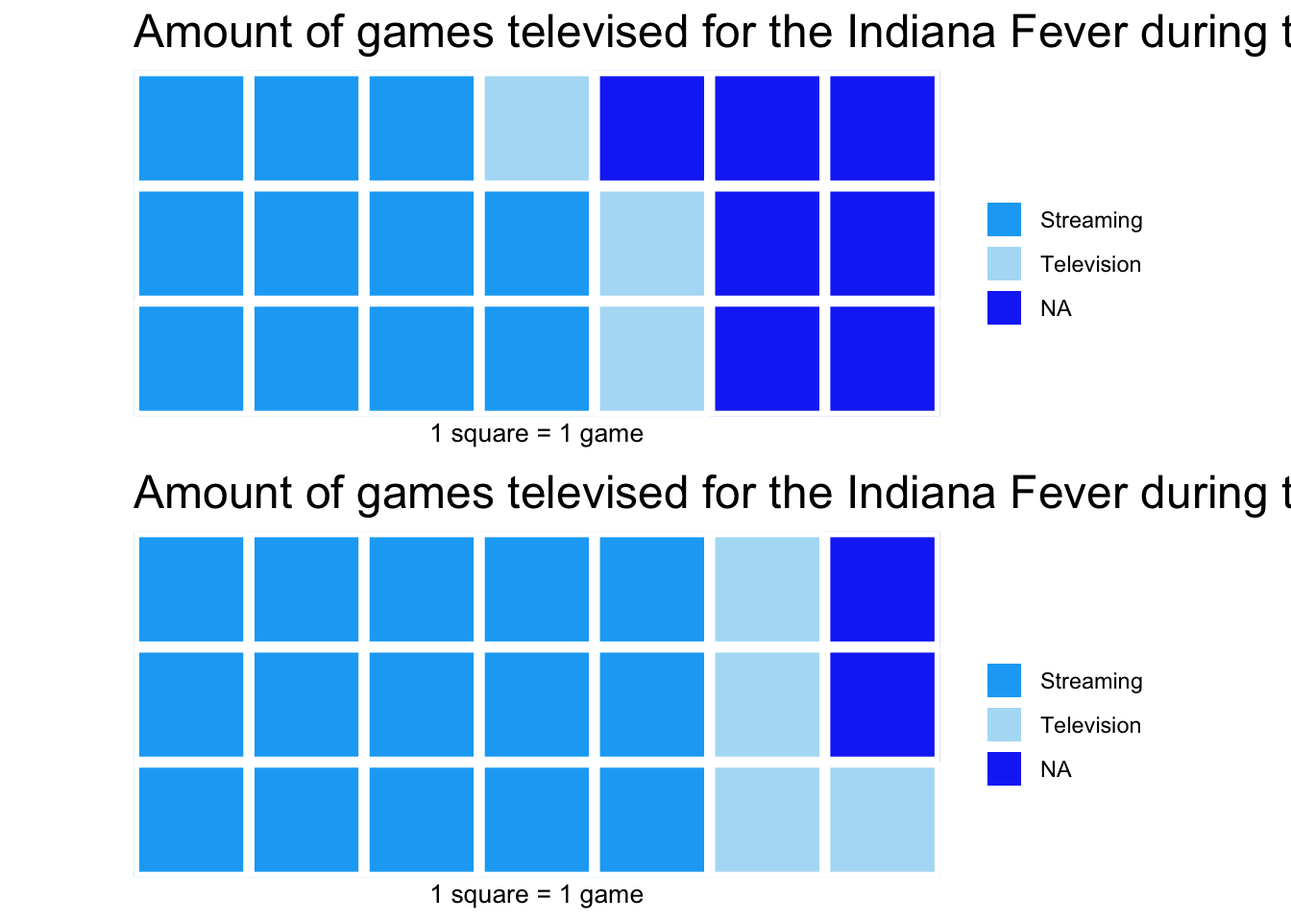
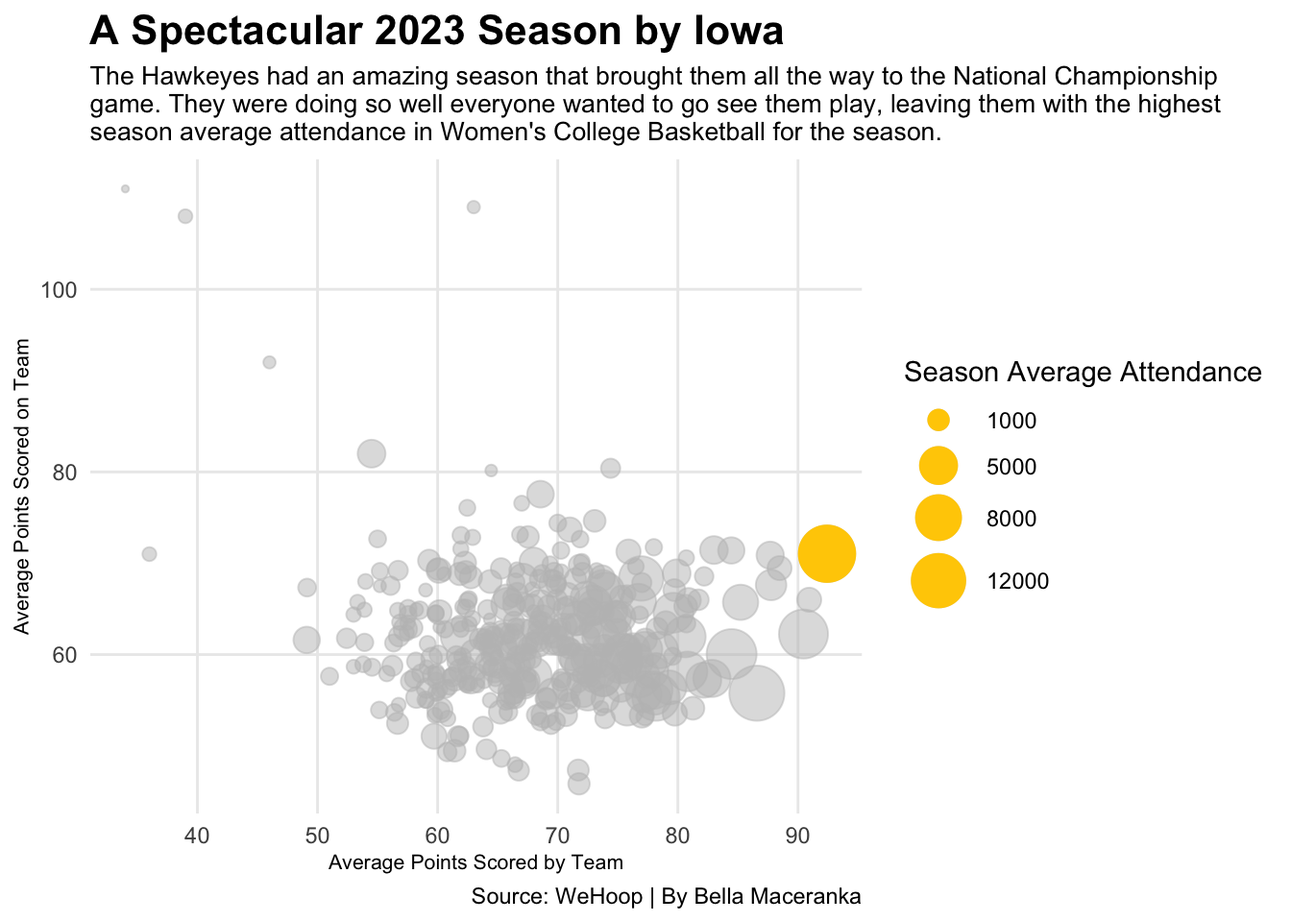
Final Draft?

diff --git a/posts/caitlin-clark-era/index.html b/posts/caitlin-clark-era/index.html
@@ -185,7 +185,8 @@ pre > code.sourceCode > span > a:first-child::before { text-decoration: underlin
 
 
 
-<p>TEXT</p>
+<p>Caitlin Clark has emerged as a transformative figure in basketball and women’s sports, leaving an enduring imprint on both the sport and her home state Iowa. As a standout player for the University of Iowa Hawkeyes women’s basketball team, her electrifying talent and fierce determination have captured the nation’s attention. With remarkable scoring prowess and unparalleled court vision, she has gained widespread acclaim, becoming one of the game’s most promising talents. Clark’s influence extends beyond her individual achievements, inspiring countless young athletes across the state and embodying the values of hard work, perseverance, and teamwork intrinsic to Iowa athletics. Her commitment to excellence on and off the court, coupled with her advocacy for important social issues, solidifies her legacy as a trailblazer.</p>
+<p>In the 2023 season, Caitlin Clark’s influence on the Iowa Hawkeyes was profound, but it was also a season of collective excellence. Under Clark’s leadership, the team showcased exceptional talent and cohesion, resulting in an impressive winning record. With a high-scoring point average and a stingy defense that allowed few points, the Hawkeyes dominated opponents, thrilling fans with their dynamic style of play. This dominance not only bolstered the team’s reputation but also contributed to the significant increase in attendance at games, as supporters flocked to witness their favorite team’s remarkable success firsthand. The teamwork between Clark and her teammates was very apparent, as they collectively elevated each others performance, forging a formidable force in collegiate basketball. As the season progressed, the Hawkeyes’ progress on the court continued to captivate audiences, solidifying their status as a powerhouse program and further cementing their place in the hearts of Iowa basketball fans.</p>
 <div class="cell">
 <details class="code-fold">
 <summary>Code</summary>
@@ -193,21 +194,43 @@ pre > code.sourceCode > span > a:first-child::before { text-decoration: underlin
 <span id="cb1-2"><a href="#cb1-2" aria-hidden="true" tabindex="-1"></a><span class="fu">library</span>(tidyverse)</span>
 <span id="cb1-3"><a href="#cb1-3" aria-hidden="true" tabindex="-1"></a><span class="fu">library</span>(waffle)</span>
 <span id="cb1-4"><a href="#cb1-4" aria-hidden="true" tabindex="-1"></a></span>
-<span id="cb1-5"><a href="#cb1-5" aria-hidden="true" tabindex="-1"></a>season23<span class="ot">&lt;-</span> <span class="fu">c</span>(<span class="st">"Streaming"</span><span class="ot">=</span> <span class="dv">11</span>, <span class="st">"Television"</span><span class="ot">=</span><span class="dv">3</span>, <span class="st">"NA"</span><span class="ot">=</span> <span class="dv">7</span>)</span>
-<span id="cb1-6"><a href="#cb1-6" aria-hidden="true" tabindex="-1"></a>season24<span class="ot">&lt;-</span> <span class="fu">c</span>(<span class="st">"Streaming"</span><span class="ot">=</span><span class="dv">15</span>, <span class="st">"Television"</span><span class="ot">=</span><span class="dv">4</span>, <span class="st">"NA"</span><span class="ot">=</span> <span class="dv">2</span>)</span>
-<span id="cb1-7"><a href="#cb1-7" aria-hidden="true" tabindex="-1"></a></span>
-<span id="cb1-8"><a href="#cb1-8" aria-hidden="true" tabindex="-1"></a><span class="fu">iron</span>(</span>
-<span id="cb1-9"><a href="#cb1-9" aria-hidden="true" tabindex="-1"></a>  <span class="fu">waffle</span>(season23,</span>
-<span id="cb1-10"><a href="#cb1-10" aria-hidden="true" tabindex="-1"></a>       <span class="at">rows=</span><span class="dv">3</span>,</span>
-<span id="cb1-11"><a href="#cb1-11" aria-hidden="true" tabindex="-1"></a>       <span class="at">title =</span> <span class="st">"Amount of games televised for the Indiana Fever during the 2023 season"</span>,</span>
-<span id="cb1-12"><a href="#cb1-12" aria-hidden="true" tabindex="-1"></a>       <span class="at">xlab =</span> <span class="st">"1 square = 1 game"</span>,</span>
-<span id="cb1-13"><a href="#cb1-13" aria-hidden="true" tabindex="-1"></a>       <span class="at">colors =</span> <span class="fu">c</span>(<span class="st">"#18ABF5"</span>, <span class="st">"#B1DEF5"</span>, <span class="st">"#183AF5"</span> ) ), </span>
-<span id="cb1-14"><a href="#cb1-14" aria-hidden="true" tabindex="-1"></a>  <span class="fu">waffle</span>(season24,</span>
-<span id="cb1-15"><a href="#cb1-15" aria-hidden="true" tabindex="-1"></a>       <span class="at">rows=</span><span class="dv">3</span>,</span>
-<span id="cb1-16"><a href="#cb1-16" aria-hidden="true" tabindex="-1"></a>       <span class="at">title =</span> <span class="st">"Amount of games televised for the Indiana Fever during the 2024 season"</span>,</span>
-<span id="cb1-17"><a href="#cb1-17" aria-hidden="true" tabindex="-1"></a>       <span class="at">xlab =</span> <span class="st">"1 square = 1 game"</span>,</span>
-<span id="cb1-18"><a href="#cb1-18" aria-hidden="true" tabindex="-1"></a>       <span class="at">colors =</span> <span class="fu">c</span>(<span class="st">"#18ABF5"</span>,<span class="st">"#B1DEF5"</span>, <span class="st">"#183AF5"</span>) )</span>
-<span id="cb1-19"><a href="#cb1-19" aria-hidden="true" tabindex="-1"></a>)</span></code><button title="Copy to Clipboard" class="code-copy-button"><i class="bi"></i></button></pre></div>
+<span id="cb1-5"><a href="#cb1-5" aria-hidden="true" tabindex="-1"></a></span>
+<span id="cb1-6"><a href="#cb1-6" aria-hidden="true" tabindex="-1"></a>ncaa2<span class="ot">&lt;-</span> <span class="fu">load_wbb_schedule</span>()</span>
+<span id="cb1-7"><a href="#cb1-7" aria-hidden="true" tabindex="-1"></a>iowa24<span class="ot">&lt;-</span> ncaa2 <span class="sc">|&gt;</span> <span class="fu">filter</span>(home_short_display_name <span class="sc">==</span><span class="st">"Iowa"</span>)</span>
+<span id="cb1-8"><a href="#cb1-8" aria-hidden="true" tabindex="-1"></a></span>
+<span id="cb1-9"><a href="#cb1-9" aria-hidden="true" tabindex="-1"></a>bubble <span class="ot">&lt;-</span> ncaa2 <span class="sc">|&gt;</span> <span class="fu">group_by</span>(home_short_display_name)<span class="sc">|&gt;</span> </span>
+<span id="cb1-10"><a href="#cb1-10" aria-hidden="true" tabindex="-1"></a>  <span class="fu">summarize</span>(</span>
+<span id="cb1-11"><a href="#cb1-11" aria-hidden="true" tabindex="-1"></a>     <span class="at">SeasonAvgAttendance =</span> <span class="fu">mean</span>(attendance), </span>
+<span id="cb1-12"><a href="#cb1-12" aria-hidden="true" tabindex="-1"></a>    <span class="at">AveragePointsFor =</span> <span class="fu">mean</span>(home_score),</span>
+<span id="cb1-13"><a href="#cb1-13" aria-hidden="true" tabindex="-1"></a>    <span class="at">AveragePointsAgainst =</span> <span class="fu">mean</span>(away_score)</span>
+<span id="cb1-14"><a href="#cb1-14" aria-hidden="true" tabindex="-1"></a>  ) </span>
+<span id="cb1-15"><a href="#cb1-15" aria-hidden="true" tabindex="-1"></a></span>
+<span id="cb1-16"><a href="#cb1-16" aria-hidden="true" tabindex="-1"></a>Iowaa<span class="ot">&lt;-</span> bubble <span class="sc">|&gt;</span> <span class="fu">filter</span>(home_short_display_name <span class="sc">==</span><span class="st">"Iowa"</span>)</span>
+<span id="cb1-17"><a href="#cb1-17" aria-hidden="true" tabindex="-1"></a></span>
+<span id="cb1-18"><a href="#cb1-18" aria-hidden="true" tabindex="-1"></a><span class="fu">ggplot</span>() <span class="sc">+</span></span>
+<span id="cb1-19"><a href="#cb1-19" aria-hidden="true" tabindex="-1"></a>  <span class="fu">geom_point</span>( </span>
+<span id="cb1-20"><a href="#cb1-20" aria-hidden="true" tabindex="-1"></a>    <span class="at">data=</span>bubble,</span>
+<span id="cb1-21"><a href="#cb1-21" aria-hidden="true" tabindex="-1"></a>    <span class="fu">aes</span>(<span class="at">x=</span>AveragePointsFor, <span class="at">y=</span>AveragePointsAgainst, <span class="at">size=</span>SeasonAvgAttendance),</span>
+<span id="cb1-22"><a href="#cb1-22" aria-hidden="true" tabindex="-1"></a>    <span class="at">color=</span><span class="st">"grey"</span>,</span>
+<span id="cb1-23"><a href="#cb1-23" aria-hidden="true" tabindex="-1"></a>    <span class="at">alpha=</span>.<span class="dv">5</span>) <span class="sc">+</span></span>
+<span id="cb1-24"><a href="#cb1-24" aria-hidden="true" tabindex="-1"></a>  <span class="fu">geom_point</span>( </span>
+<span id="cb1-25"><a href="#cb1-25" aria-hidden="true" tabindex="-1"></a>    <span class="at">data=</span>Iowaa,</span>
+<span id="cb1-26"><a href="#cb1-26" aria-hidden="true" tabindex="-1"></a>    <span class="fu">aes</span>(<span class="at">x=</span>AveragePointsFor, <span class="at">y=</span>AveragePointsAgainst, <span class="at">size=</span>SeasonAvgAttendance),</span>
+<span id="cb1-27"><a href="#cb1-27" aria-hidden="true" tabindex="-1"></a>    <span class="at">color=</span><span class="st">"#FFCD00"</span>) <span class="sc">+</span> <span class="fu">scale_size</span>(<span class="at">range=</span><span class="fu">c</span>(<span class="dv">1</span>,<span class="dv">10</span>), <span class="at">breaks=</span><span class="fu">c</span>(<span class="dv">1000</span>,<span class="dv">5000</span>, <span class="dv">8000</span>, <span class="dv">12000</span>)) <span class="sc">+</span> </span>
+<span id="cb1-28"><a href="#cb1-28" aria-hidden="true" tabindex="-1"></a>  <span class="fu">labs</span>(</span>
+<span id="cb1-29"><a href="#cb1-29" aria-hidden="true" tabindex="-1"></a>    <span class="at">x=</span><span class="st">"Average Points Scored by Team"</span>, </span>
+<span id="cb1-30"><a href="#cb1-30" aria-hidden="true" tabindex="-1"></a>    <span class="at">y=</span><span class="st">"Average Points Scored on Team"</span>,</span>
+<span id="cb1-31"><a href="#cb1-31" aria-hidden="true" tabindex="-1"></a>    <span class="at">size=</span> <span class="st">"Season Average Attendance"</span>, </span>
+<span id="cb1-32"><a href="#cb1-32" aria-hidden="true" tabindex="-1"></a>    <span class="at">title=</span><span class="st">"A Spectacular 2023 Season by Iowa"</span>, </span>
+<span id="cb1-33"><a href="#cb1-33" aria-hidden="true" tabindex="-1"></a>    <span class="at">subtitle=</span><span class="st">"The Hawkeyes had an amazing season that brought them all the way to the National Championship</span><span class="sc">\n</span><span class="st">game. They were doing so well everyone wanted to go see them play, leaving them with the highest</span><span class="sc">\n</span><span class="st">season average attendance in Women's College Basketball for the season. "</span>, </span>
+<span id="cb1-34"><a href="#cb1-34" aria-hidden="true" tabindex="-1"></a>    <span class="at">caption=</span><span class="st">"Source: WeHoop | By Bella Maceranka"</span>) <span class="sc">+</span> </span>
+<span id="cb1-35"><a href="#cb1-35" aria-hidden="true" tabindex="-1"></a>  <span class="fu">theme_minimal</span>() <span class="sc">+</span> </span>
+<span id="cb1-36"><a href="#cb1-36" aria-hidden="true" tabindex="-1"></a>  <span class="fu">theme</span>(</span>
+<span id="cb1-37"><a href="#cb1-37" aria-hidden="true" tabindex="-1"></a>    <span class="at">plot.title =</span> <span class="fu">element_text</span>(<span class="at">size =</span> <span class="dv">16</span>, <span class="at">face =</span> <span class="st">"bold"</span>),</span>
+<span id="cb1-38"><a href="#cb1-38" aria-hidden="true" tabindex="-1"></a>    <span class="at">axis.title =</span> <span class="fu">element_text</span>(<span class="at">size =</span> <span class="dv">8</span>), </span>
+<span id="cb1-39"><a href="#cb1-39" aria-hidden="true" tabindex="-1"></a>    <span class="at">plot.subtitle =</span> <span class="fu">element_text</span>(<span class="at">size=</span><span class="dv">10</span>), </span>
+<span id="cb1-40"><a href="#cb1-40" aria-hidden="true" tabindex="-1"></a>    <span class="at">panel.grid.minor =</span> <span class="fu">element_blank</span>()</span>
+<span id="cb1-41"><a href="#cb1-41" aria-hidden="true" tabindex="-1"></a>    )</span></code><button title="Copy to Clipboard" class="code-copy-button"><i class="bi"></i></button></pre></div>
 </details>
 <div class="cell-output-display">
 <div>
@@ -217,19 +240,36 @@ pre > code.sourceCode > span > a:first-child::before { text-decoration: underlin
 </div>
 </div>
 </div>
-<p>TEXT</p>
+<p>Caitlin Clark’s selection as the first pick by the Indiana Fever in the 2024 WNBA draft marks a monumental moment for both her career and the league as a whole. The anticipation surrounding her transition to the professional ranks has been huge, with fans eagerly awaiting her debut on the WNBA stage. As Clark joins the Fever, her arrival is already making waves, shown by the giant surge in demand for her jersey, which sold out very quickly on the night she was drafted. This unprecedented interest reflects not only the excitement surrounding Clark’s entry into the WNBA but also the broader impact she’s poised to have on the league.</p>
+<p>The increased number of televised games for the Fever this year suggests a growing recognition of the team’s potential to draw in viewers, with Clark’s presence likely playing a significant role in attracting heightened media attention. This expanded coverage not only provides fans with more opportunities to witness Clark’s electrifying talent but also highlights the rising prominence of the Fever and the WNBA as a whole. As anticipation builds for Clark’s debut, the feverish excitement surrounding her entry into the league underscores the transformative impact she’s already making on women’s basketball, both on and off the court.</p>
 <div class="cell">
 <details class="code-fold">
 <summary>Code</summary>
-<div class="sourceCode cell-code" id="cb2"><pre class="sourceCode r code-with-copy"><code class="sourceCode r"><span id="cb2-1"><a href="#cb2-1" aria-hidden="true" tabindex="-1"></a>season2023<span class="ot">&lt;-</span> <span class="fu">espn_wnba_scoreboard</span>(<span class="at">season =</span> <span class="st">"2023"</span>)</span>
-<span id="cb2-2"><a href="#cb2-2" aria-hidden="true" tabindex="-1"></a></span>
-<span id="cb2-3"><a href="#cb2-3" aria-hidden="true" tabindex="-1"></a>indiana<span class="ot">&lt;-</span> season2023 <span class="sc">|&gt;</span> </span>
-<span id="cb2-4"><a href="#cb2-4" aria-hidden="true" tabindex="-1"></a>  <span class="fu">filter</span>(home_team_name <span class="sc">==</span> <span class="st">"Fever"</span>)</span>
-<span id="cb2-5"><a href="#cb2-5" aria-hidden="true" tabindex="-1"></a></span>
-<span id="cb2-6"><a href="#cb2-6" aria-hidden="true" tabindex="-1"></a><span class="fu">ggplot</span>() <span class="sc">+</span> </span>
-<span id="cb2-7"><a href="#cb2-7" aria-hidden="true" tabindex="-1"></a>  <span class="fu">geom_hline</span>(<span class="at">yintercept=</span> <span class="fl">6645.883</span>   , <span class="at">color=</span><span class="st">"blue"</span>) <span class="sc">+</span> </span>
-<span id="cb2-8"><a href="#cb2-8" aria-hidden="true" tabindex="-1"></a>  <span class="fu">geom_line</span>(<span class="at">data=</span>indiana, <span class="fu">aes</span>(<span class="at">x=</span>game_date, <span class="at">y=</span>attendance, <span class="at">group=</span> home_team_name)) <span class="sc">+</span> </span>
-<span id="cb2-9"><a href="#cb2-9" aria-hidden="true" tabindex="-1"></a>  <span class="fu">facet_wrap</span>(<span class="sc">~</span>home_team_name)</span></code><button title="Copy to Clipboard" class="code-copy-button"><i class="bi"></i></button></pre></div>
+<div class="sourceCode cell-code" id="cb2"><pre class="sourceCode r code-with-copy"><code class="sourceCode r"><span id="cb2-1"><a href="#cb2-1" aria-hidden="true" tabindex="-1"></a>season23<span class="ot">&lt;-</span> <span class="fu">c</span>(<span class="st">"Streaming"</span><span class="ot">=</span> <span class="dv">11</span>, <span class="st">"Television"</span><span class="ot">=</span><span class="dv">3</span>, <span class="st">"Not Televised"</span><span class="ot">=</span> <span class="dv">7</span>)</span>
+<span id="cb2-2"><a href="#cb2-2" aria-hidden="true" tabindex="-1"></a>season24<span class="ot">&lt;-</span> <span class="fu">c</span>(<span class="st">"Streaming"</span><span class="ot">=</span><span class="dv">15</span>, <span class="st">"Television"</span><span class="ot">=</span><span class="dv">4</span>, <span class="st">"Not Televised"</span><span class="ot">=</span> <span class="dv">2</span>)</span>
+<span id="cb2-3"><a href="#cb2-3" aria-hidden="true" tabindex="-1"></a></span>
+<span id="cb2-4"><a href="#cb2-4" aria-hidden="true" tabindex="-1"></a><span class="fu">iron</span>(</span>
+<span id="cb2-5"><a href="#cb2-5" aria-hidden="true" tabindex="-1"></a>  <span class="fu">waffle</span>(season23,</span>
+<span id="cb2-6"><a href="#cb2-6" aria-hidden="true" tabindex="-1"></a>       <span class="at">rows=</span><span class="dv">3</span>,</span>
+<span id="cb2-7"><a href="#cb2-7" aria-hidden="true" tabindex="-1"></a>       <span class="at">title =</span> <span class="st">"Amount of games televised for the Indiana Fever during the 2023 season"</span>,</span>
+<span id="cb2-8"><a href="#cb2-8" aria-hidden="true" tabindex="-1"></a>       <span class="at">xlab =</span> <span class="st">"2023 Season"</span>,</span>
+<span id="cb2-9"><a href="#cb2-9" aria-hidden="true" tabindex="-1"></a>       <span class="at">colors =</span> <span class="fu">c</span>(<span class="st">"#18ABF5"</span>, <span class="st">"#B1DEF5"</span>, <span class="st">"#183AF5"</span> ) )<span class="sc">+</span> </span>
+<span id="cb2-10"><a href="#cb2-10" aria-hidden="true" tabindex="-1"></a>    <span class="fu">labs</span>(</span>
+<span id="cb2-11"><a href="#cb2-11" aria-hidden="true" tabindex="-1"></a>      <span class="at">title=</span><span class="st">"A Huge Difference in the Amount of Games</span><span class="sc">\n</span><span class="st">Shown for the Indiana Fever Between the 2023</span><span class="sc">\n</span><span class="st">and 2024 seasons"</span>,</span>
+<span id="cb2-12"><a href="#cb2-12" aria-hidden="true" tabindex="-1"></a>      <span class="at">subtitle =</span> <span class="st">"In 2023 Caitlin Clark was not on the team, in 2024 she was the first round</span><span class="sc">\n</span><span class="st">draft pick for the Fever. Is that why there are so many more games being</span><span class="sc">\n</span><span class="st">shows,or are women's sports finally getting more recognition?"</span></span>
+<span id="cb2-13"><a href="#cb2-13" aria-hidden="true" tabindex="-1"></a>    ) <span class="sc">+</span></span>
+<span id="cb2-14"><a href="#cb2-14" aria-hidden="true" tabindex="-1"></a>    <span class="fu">theme</span>(</span>
+<span id="cb2-15"><a href="#cb2-15" aria-hidden="true" tabindex="-1"></a>      <span class="at">plot.title =</span> <span class="fu">element_text</span>(<span class="at">size =</span> <span class="dv">16</span>, <span class="at">face =</span><span class="st">"bold"</span>),</span>
+<span id="cb2-16"><a href="#cb2-16" aria-hidden="true" tabindex="-1"></a>      <span class="at">axis.title =</span> <span class="fu">element_text</span>(<span class="at">size =</span> <span class="dv">10</span>),</span>
+<span id="cb2-17"><a href="#cb2-17" aria-hidden="true" tabindex="-1"></a>      <span class="at">axis.line.y =</span> <span class="fu">element_blank</span>()</span>
+<span id="cb2-18"><a href="#cb2-18" aria-hidden="true" tabindex="-1"></a>    )</span>
+<span id="cb2-19"><a href="#cb2-19" aria-hidden="true" tabindex="-1"></a>    , </span>
+<span id="cb2-20"><a href="#cb2-20" aria-hidden="true" tabindex="-1"></a>  <span class="fu">waffle</span>(season24,</span>
+<span id="cb2-21"><a href="#cb2-21" aria-hidden="true" tabindex="-1"></a>       <span class="at">rows=</span><span class="dv">3</span>,</span>
+<span id="cb2-22"><a href="#cb2-22" aria-hidden="true" tabindex="-1"></a>       <span class="at">xlab =</span> <span class="st">"2024 Season</span><span class="sc">\n</span><span class="st">1 square = 1 game"</span>,</span>
+<span id="cb2-23"><a href="#cb2-23" aria-hidden="true" tabindex="-1"></a>       <span class="at">colors =</span> <span class="fu">c</span>(<span class="st">"#18ABF5"</span>,<span class="st">"#B1DEF5"</span>, <span class="st">"#183AF5"</span>) ) <span class="sc">+</span></span>
+<span id="cb2-24"><a href="#cb2-24" aria-hidden="true" tabindex="-1"></a>    <span class="fu">labs</span>(<span class="at">caption =</span> <span class="st">"Source: WeHoop | Graphic by Bella Maceranka"</span>)</span>
+<span id="cb2-25"><a href="#cb2-25" aria-hidden="true" tabindex="-1"></a>)</span></code><button title="Copy to Clipboard" class="code-copy-button"><i class="bi"></i></button></pre></div>
 </details>
 <div class="cell-output-display">
 <div>
@@ -239,32 +279,32 @@ pre > code.sourceCode > span > a:first-child::before { text-decoration: underlin
 </div>
 </div>
 </div>
-<p>TEXT</p>
+<p>In addition to their on-court struggles, the Indiana Fever faced significant challenges in attracting fans to their games during the 2023 season. With consistently low attendance numbers, the team grappled with filling seats and engaging their fan base throughout the season. The lack of support from spectators not only affected the team’s morale but also created a palpable sense of disconnect between the Fever and their community. Despite their efforts to compete at a high level, the empty seats in the arena served as a stark reminder of the uphill battle the Fever faced in cultivating a passionate and dedicated fan following. As they look towards the future, addressing the issue of attendance looms large as a critical priority for the Fever organization, as they strive to rebuild and re-energize their fan base for seasons to come.</p>
 <div class="cell">
 <details class="code-fold">
 <summary>Code</summary>
-<div class="sourceCode cell-code" id="cb3"><pre class="sourceCode r code-with-copy"><code class="sourceCode r"><span id="cb3-1"><a href="#cb3-1" aria-hidden="true" tabindex="-1"></a>ncaa2<span class="ot">&lt;-</span> <span class="fu">load_wbb_schedule</span>()</span>
-<span id="cb3-2"><a href="#cb3-2" aria-hidden="true" tabindex="-1"></a>iowa24<span class="ot">&lt;-</span> ncaa2 <span class="sc">|&gt;</span> <span class="fu">filter</span>(home_short_display_name <span class="sc">==</span><span class="st">"Iowa"</span>)</span>
-<span id="cb3-3"><a href="#cb3-3" aria-hidden="true" tabindex="-1"></a></span>
-<span id="cb3-4"><a href="#cb3-4" aria-hidden="true" tabindex="-1"></a>bubble <span class="ot">&lt;-</span> ncaa2 <span class="sc">|&gt;</span> <span class="fu">group_by</span>(home_short_display_name)<span class="sc">|&gt;</span> </span>
-<span id="cb3-5"><a href="#cb3-5" aria-hidden="true" tabindex="-1"></a>  <span class="fu">summarize</span>(</span>
-<span id="cb3-6"><a href="#cb3-6" aria-hidden="true" tabindex="-1"></a>     <span class="at">SeasonAvgAttendance =</span> <span class="fu">mean</span>(attendance), </span>
-<span id="cb3-7"><a href="#cb3-7" aria-hidden="true" tabindex="-1"></a>    <span class="at">AveragePointsFor =</span> <span class="fu">mean</span>(home_score),</span>
-<span id="cb3-8"><a href="#cb3-8" aria-hidden="true" tabindex="-1"></a>    <span class="at">AveragePointsAgainst =</span> <span class="fu">mean</span>(away_score)</span>
-<span id="cb3-9"><a href="#cb3-9" aria-hidden="true" tabindex="-1"></a>  ) </span>
-<span id="cb3-10"><a href="#cb3-10" aria-hidden="true" tabindex="-1"></a></span>
-<span id="cb3-11"><a href="#cb3-11" aria-hidden="true" tabindex="-1"></a>Iowaa<span class="ot">&lt;-</span> bubble <span class="sc">|&gt;</span> <span class="fu">filter</span>(home_short_display_name <span class="sc">==</span><span class="st">"Iowa"</span>)</span>
-<span id="cb3-12"><a href="#cb3-12" aria-hidden="true" tabindex="-1"></a></span>
-<span id="cb3-13"><a href="#cb3-13" aria-hidden="true" tabindex="-1"></a><span class="fu">ggplot</span>() <span class="sc">+</span></span>
-<span id="cb3-14"><a href="#cb3-14" aria-hidden="true" tabindex="-1"></a>  <span class="fu">geom_point</span>( </span>
-<span id="cb3-15"><a href="#cb3-15" aria-hidden="true" tabindex="-1"></a>    <span class="at">data=</span>bubble,</span>
-<span id="cb3-16"><a href="#cb3-16" aria-hidden="true" tabindex="-1"></a>    <span class="fu">aes</span>(<span class="at">x=</span>AveragePointsFor, <span class="at">y=</span>AveragePointsAgainst, <span class="at">size=</span>SeasonAvgAttendance),</span>
-<span id="cb3-17"><a href="#cb3-17" aria-hidden="true" tabindex="-1"></a>    <span class="at">color=</span><span class="st">"grey"</span>,</span>
-<span id="cb3-18"><a href="#cb3-18" aria-hidden="true" tabindex="-1"></a>    <span class="at">alpha=</span>.<span class="dv">5</span>) <span class="sc">+</span></span>
-<span id="cb3-19"><a href="#cb3-19" aria-hidden="true" tabindex="-1"></a>  <span class="fu">geom_point</span>( </span>
-<span id="cb3-20"><a href="#cb3-20" aria-hidden="true" tabindex="-1"></a>    <span class="at">data=</span>Iowaa,</span>
-<span id="cb3-21"><a href="#cb3-21" aria-hidden="true" tabindex="-1"></a>    <span class="fu">aes</span>(<span class="at">x=</span>AveragePointsFor, <span class="at">y=</span>AveragePointsAgainst, <span class="at">size=</span>SeasonAvgAttendance),</span>
-<span id="cb3-22"><a href="#cb3-22" aria-hidden="true" tabindex="-1"></a>    <span class="at">color=</span><span class="st">"#FFCD00"</span>) <span class="sc">+</span> <span class="fu">scale_size</span>(<span class="at">range=</span><span class="fu">c</span>(<span class="dv">1</span>,<span class="dv">10</span>), <span class="at">breaks=</span><span class="fu">c</span>(<span class="dv">1000</span>,<span class="dv">5000</span>, <span class="dv">8000</span>, <span class="dv">12000</span>))</span></code><button title="Copy to Clipboard" class="code-copy-button"><i class="bi"></i></button></pre></div>
+<div class="sourceCode cell-code" id="cb3"><pre class="sourceCode r code-with-copy"><code class="sourceCode r"><span id="cb3-1"><a href="#cb3-1" aria-hidden="true" tabindex="-1"></a>season2023<span class="ot">&lt;-</span> <span class="fu">espn_wnba_scoreboard</span>(<span class="at">season =</span> <span class="st">"2023"</span>)</span>
+<span id="cb3-2"><a href="#cb3-2" aria-hidden="true" tabindex="-1"></a></span>
+<span id="cb3-3"><a href="#cb3-3" aria-hidden="true" tabindex="-1"></a>indiana<span class="ot">&lt;-</span> season2023 <span class="sc">|&gt;</span> </span>
+<span id="cb3-4"><a href="#cb3-4" aria-hidden="true" tabindex="-1"></a>  <span class="fu">filter</span>(home_team_name <span class="sc">==</span> <span class="st">"Fever"</span>)</span>
+<span id="cb3-5"><a href="#cb3-5" aria-hidden="true" tabindex="-1"></a></span>
+<span id="cb3-6"><a href="#cb3-6" aria-hidden="true" tabindex="-1"></a><span class="fu">ggplot</span>() <span class="sc">+</span> </span>
+<span id="cb3-7"><a href="#cb3-7" aria-hidden="true" tabindex="-1"></a>  <span class="fu">geom_hline</span>(<span class="at">yintercept=</span> <span class="fl">6645.883</span>   , <span class="at">color=</span><span class="st">"blue"</span>) <span class="sc">+</span> </span>
+<span id="cb3-8"><a href="#cb3-8" aria-hidden="true" tabindex="-1"></a>  <span class="fu">geom_line</span>(<span class="at">data=</span>indiana, <span class="fu">aes</span>(<span class="at">x=</span>game_date, <span class="at">y=</span>attendance)) <span class="sc">+</span> </span>
+<span id="cb3-9"><a href="#cb3-9" aria-hidden="true" tabindex="-1"></a>  <span class="fu">facet_wrap</span>(<span class="sc">~</span>home_team_name) <span class="sc">+</span></span>
+<span id="cb3-10"><a href="#cb3-10" aria-hidden="true" tabindex="-1"></a>   <span class="fu">labs</span>(</span>
+<span id="cb3-11"><a href="#cb3-11" aria-hidden="true" tabindex="-1"></a>    <span class="at">x=</span><span class="st">"Game"</span>, </span>
+<span id="cb3-12"><a href="#cb3-12" aria-hidden="true" tabindex="-1"></a>    <span class="at">y=</span><span class="st">"Attendance"</span>, </span>
+<span id="cb3-13"><a href="#cb3-13" aria-hidden="true" tabindex="-1"></a>    <span class="at">title=</span><span class="st">"Indiana's Below Average Attendance"</span>, </span>
+<span id="cb3-14"><a href="#cb3-14" aria-hidden="true" tabindex="-1"></a>    <span class="at">subtitle=</span><span class="st">"The Fever are one of the worst teams in the league, which has led to them having poor</span><span class="sc">\n</span><span class="st">attendance at their games. The league average for attendance is 6,645, The Fever had only</span><span class="sc">\n</span><span class="st">1 game above the averahe during the 2023 season, with most games being far below average."</span>, </span>
+<span id="cb3-15"><a href="#cb3-15" aria-hidden="true" tabindex="-1"></a>    <span class="at">caption=</span><span class="st">"Source: WeHoop | By Bella Maceranka"</span>) <span class="sc">+</span> </span>
+<span id="cb3-16"><a href="#cb3-16" aria-hidden="true" tabindex="-1"></a>  <span class="fu">theme_minimal</span>() <span class="sc">+</span> </span>
+<span id="cb3-17"><a href="#cb3-17" aria-hidden="true" tabindex="-1"></a>  <span class="fu">theme</span>(</span>
+<span id="cb3-18"><a href="#cb3-18" aria-hidden="true" tabindex="-1"></a>    <span class="at">plot.title =</span> <span class="fu">element_text</span>(<span class="at">size =</span> <span class="dv">16</span>, <span class="at">face =</span> <span class="st">"bold"</span>),</span>
+<span id="cb3-19"><a href="#cb3-19" aria-hidden="true" tabindex="-1"></a>    <span class="at">axis.title =</span> <span class="fu">element_text</span>(<span class="at">size =</span> <span class="dv">8</span>), </span>
+<span id="cb3-20"><a href="#cb3-20" aria-hidden="true" tabindex="-1"></a>    <span class="at">plot.subtitle =</span> <span class="fu">element_text</span>(<span class="at">size=</span><span class="dv">10</span>), </span>
+<span id="cb3-21"><a href="#cb3-21" aria-hidden="true" tabindex="-1"></a>    <span class="at">panel.grid.minor =</span> <span class="fu">element_blank</span>()</span>
+<span id="cb3-22"><a href="#cb3-22" aria-hidden="true" tabindex="-1"></a>    )</span></code><button title="Copy to Clipboard" class="code-copy-button"><i class="bi"></i></button></pre></div>
 </details>
 <div class="cell-output-display">
 <div>
@@ -274,6 +314,7 @@ pre > code.sourceCode > span > a:first-child::before { text-decoration: underlin
 </div>
 </div>
 </div>
+<p>However, amidst the challenges of the previous season, there’s a glimmer of hope for the Indiana Fever. With the anticipation surrounding Caitlin Clark’s arrival, there’s been a noticeable shift in the atmosphere surrounding the team. The Fever’s first home game of the season has already sold out, indicating a resurgence in fan interest and support. Ticket prices are soaring as fans want to witness Clark’s debut in person, signaling a newfound excitement and optimism for the team’s future. Even before stepping onto the court, Clark’s presence has given a renewed sense of energy and enthusiasm into the Fever organization. Her arrival not only brings immense talent but also serves as a catalyst for positive change, igniting a spark of hope and anticipation for a brighter season ahead. As anticipation builds for her inaugural season, Clark’s influence is poised to extend beyond the court, reshaping the landscape of women’s basketball and captivating audiences nationwide. With her unparalleled talent, charisma, and unwavering dedication, Clark has the potential to not only elevate the Fever to new heights but also inspire a new generation of fans and players, leaving a mark on the WNBA for years to come. As the season unfolds, all eyes will be on Caitlin Clark as she continues to write her own legacy in women’s basketball history.</p>
 
 
 

diff --git a/index.html b/index.html
@@ -205,7 +205,7 @@ window.Quarto = {
 
 <div class="quarto-listing quarto-listing-container-default" id="listing-listing">
 <div class="list quarto-listing-default">
-<div class="quarto-post image-right" data-index="0" data-categories="" data-listing-date-sort="1714539600000" data-listing-file-modified-sort="1714590286537" data-listing-date-modified-sort="NaN" data-listing-reading-time-sort="2" data-listing-word-count-sort="237">
+<div class="quarto-post image-right" data-index="0" data-categories="" data-listing-date-sort="1714539600000" data-listing-file-modified-sort="1714939044297" data-listing-date-modified-sort="NaN" data-listing-reading-time-sort="8" data-listing-word-count-sort="1441">
 <div class="thumbnail">
 <p><a href="./posts/caitlin-clark-era/index.html" class="no-external"></a></p><a href="./posts/caitlin-clark-era/index.html" class="no-external">
 <p><img src="./posts/caitlin-clark-era/Caitlin-photo.jpeg" class="thumbnail-image"></p>
@@ -222,7 +222,7 @@ window.Quarto = {
 
 </div>
 <div class="listing-description">
-<a href="./posts/caitlin-clark-era/index.html" class="no-external">TEXT</a>
+<a href="./posts/caitlin-clark-era/index.html" class="no-external">Caitlin Clark has emerged as a transformative figure in basketball and women’s sports, leaving an enduring imprint on both the sport and her home state Iowa. As a standout…</a>
 </div>
 </div>
 <div class="metadata">
